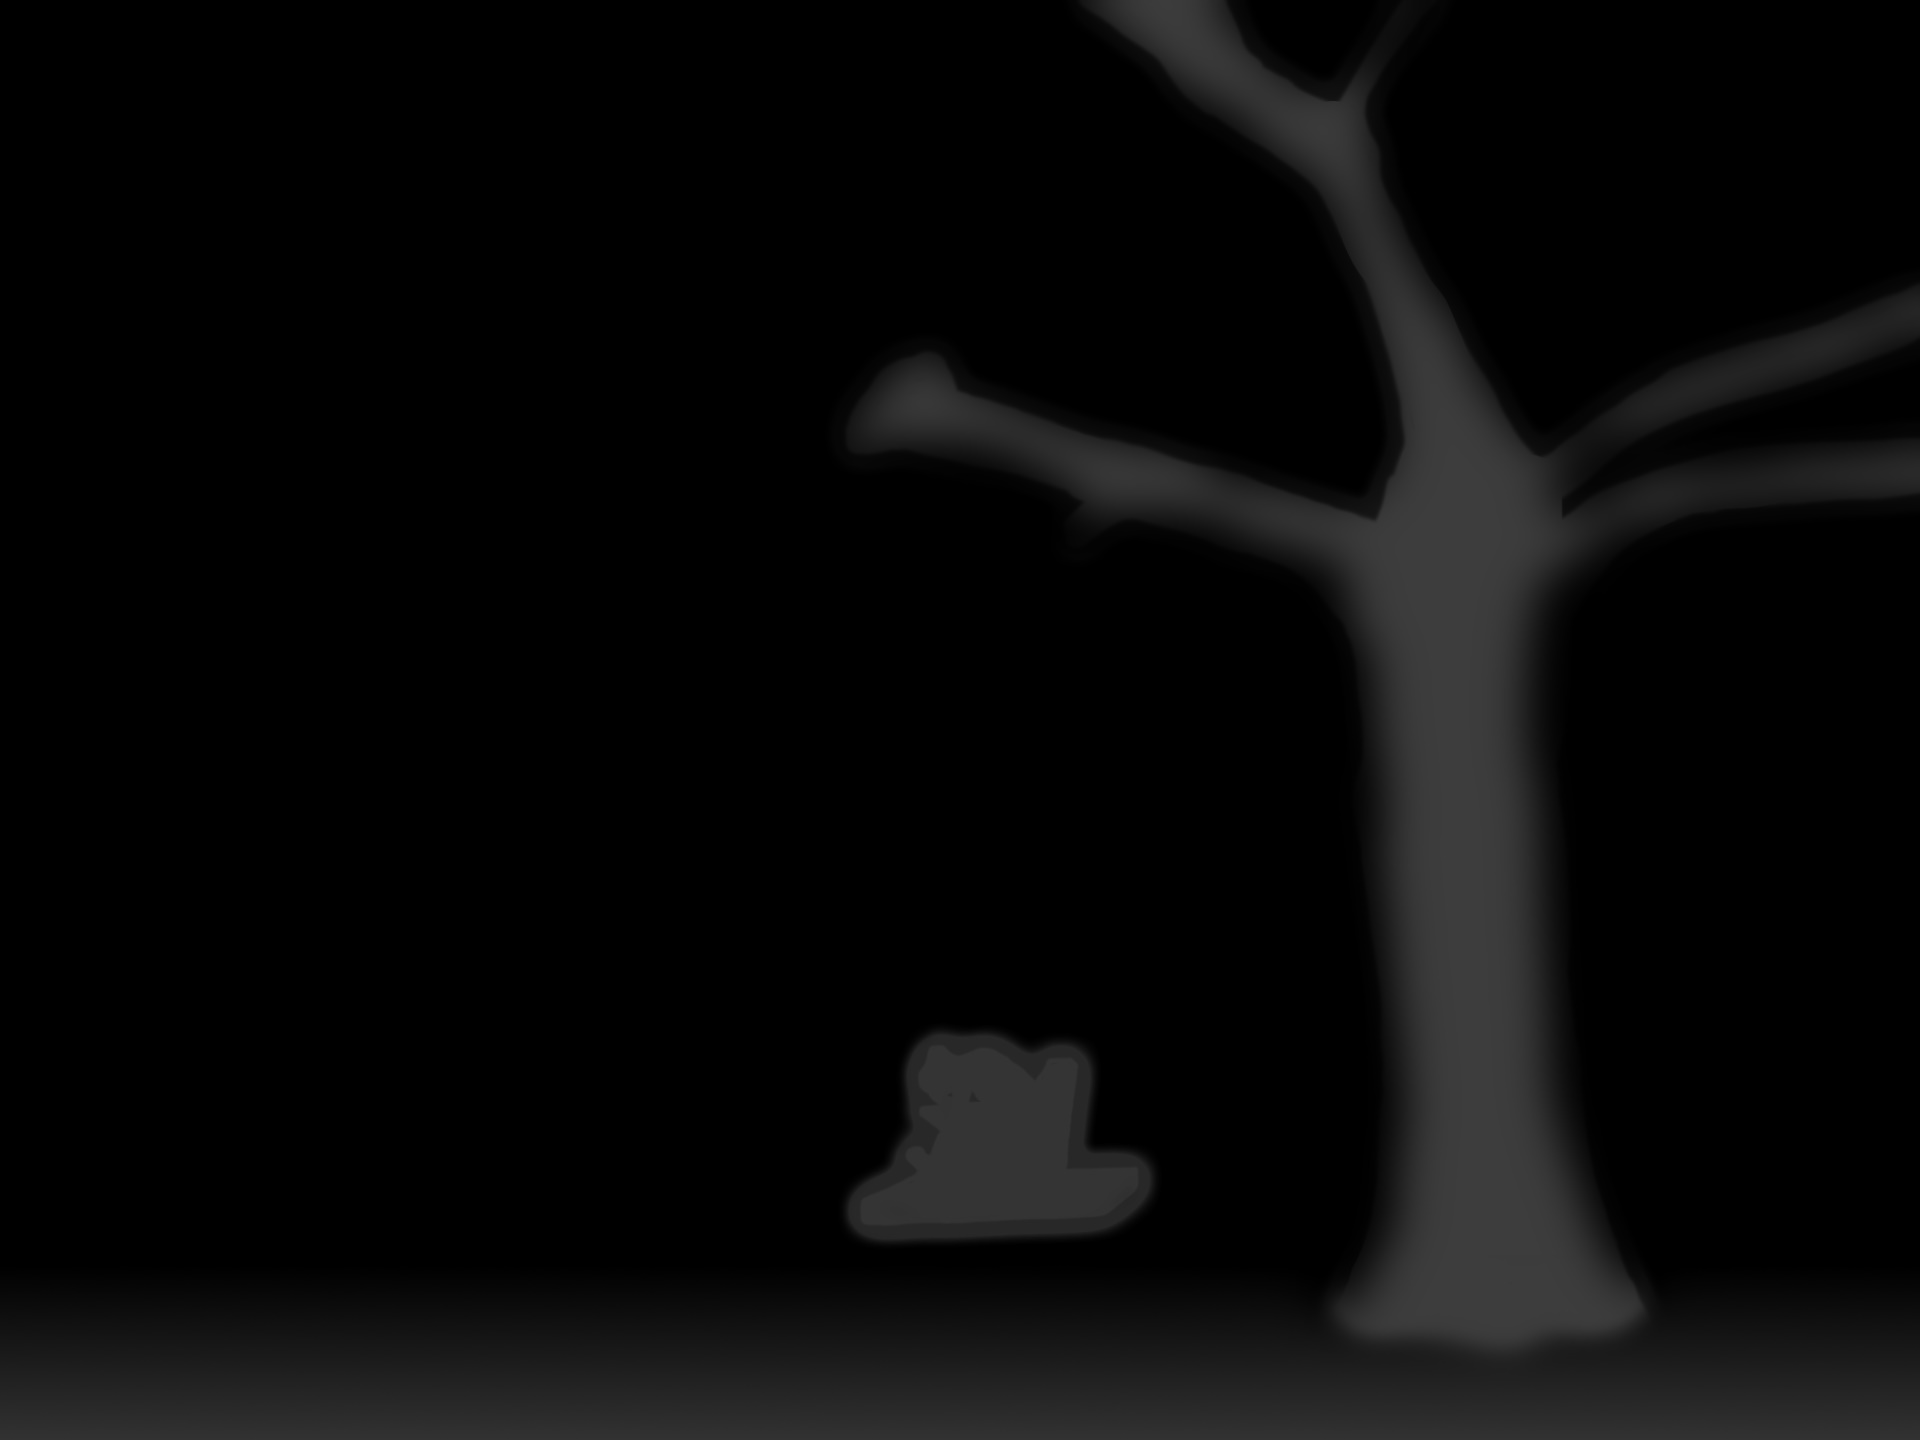
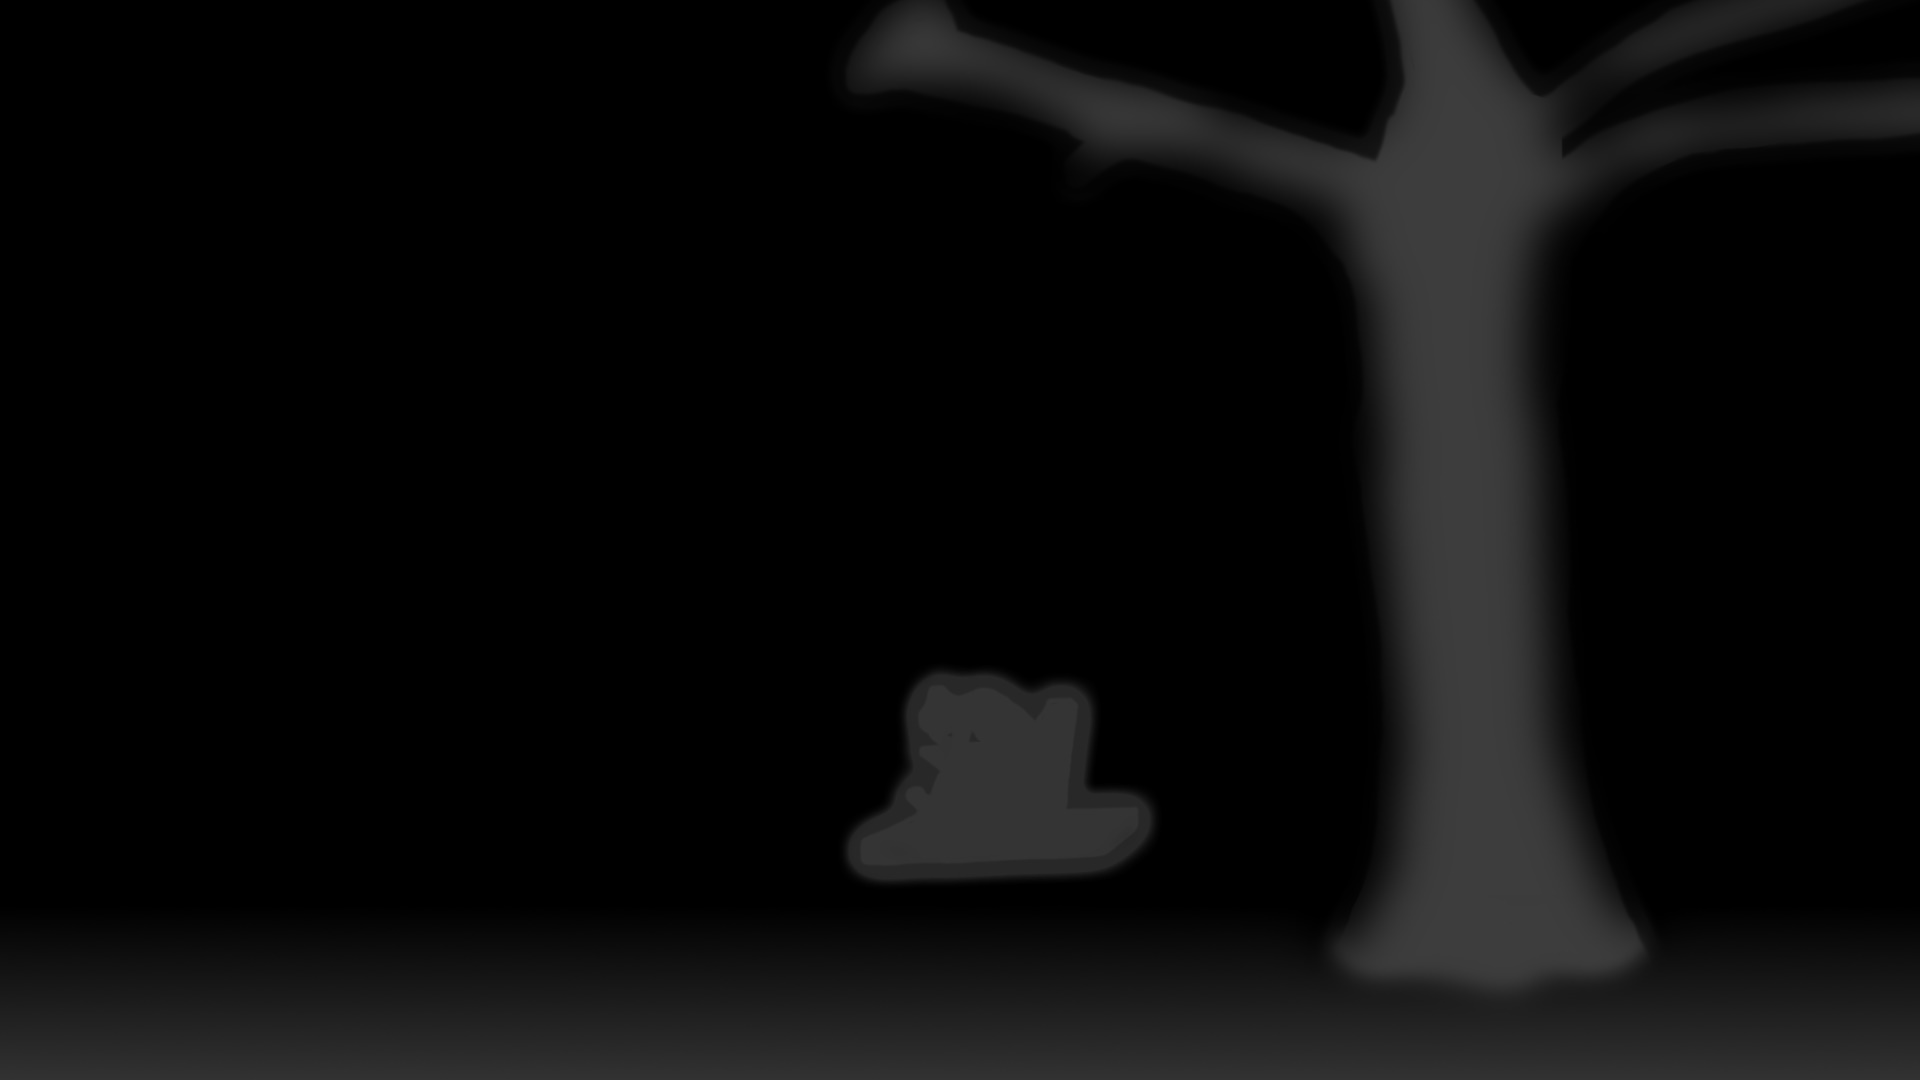
Changement des images

diff --git a/js/main.js b/js/main.js
@@ -3,15 +3,14 @@ const app = new PIXI.Application({width: window.innerWidth, height: window.inner
 document.getElementById("menu").appendChild(app.view);
 
 const img = new PIXI.Sprite.from("img/accueil.jpg");
-img.scale.set(1, 1);
-img.position.set(-45, -(app.screen.height / 3));
+// img.scale.set(1, 1);
+// img.position.set(-45, -1);
 img.alpha = .3;
 app.stage.addChild(img);
-console.log(img.width, img.height)
 
 const map = new PIXI.Sprite.from("img/accueil-map.jpg");
-map.scale.set(1, 1);
-map.position.set(-45, -(app.screen.height / 3));
+// map.scale.set(1, 1);
+// map.position.set(-45, 0);
 app.stage.addChild(map);
 
 const displacementFilter = new PIXI.filters.DisplacementFilter(map);
